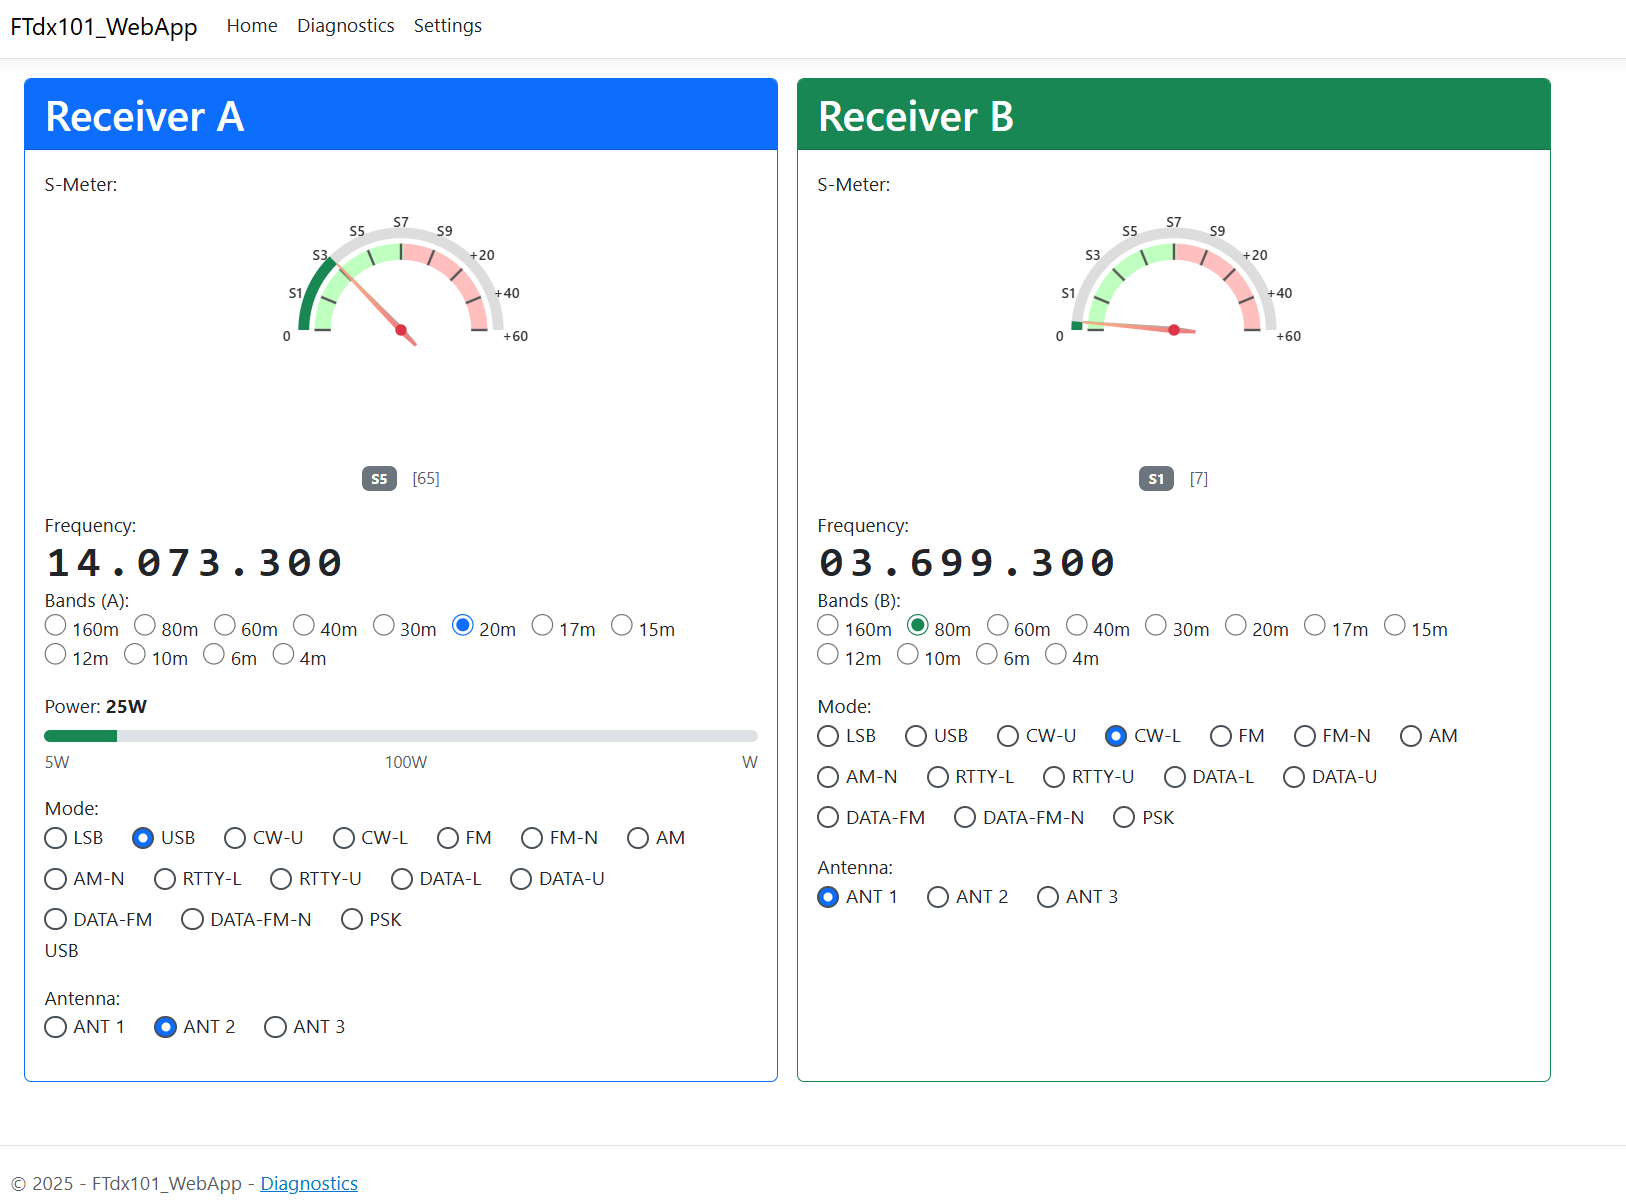
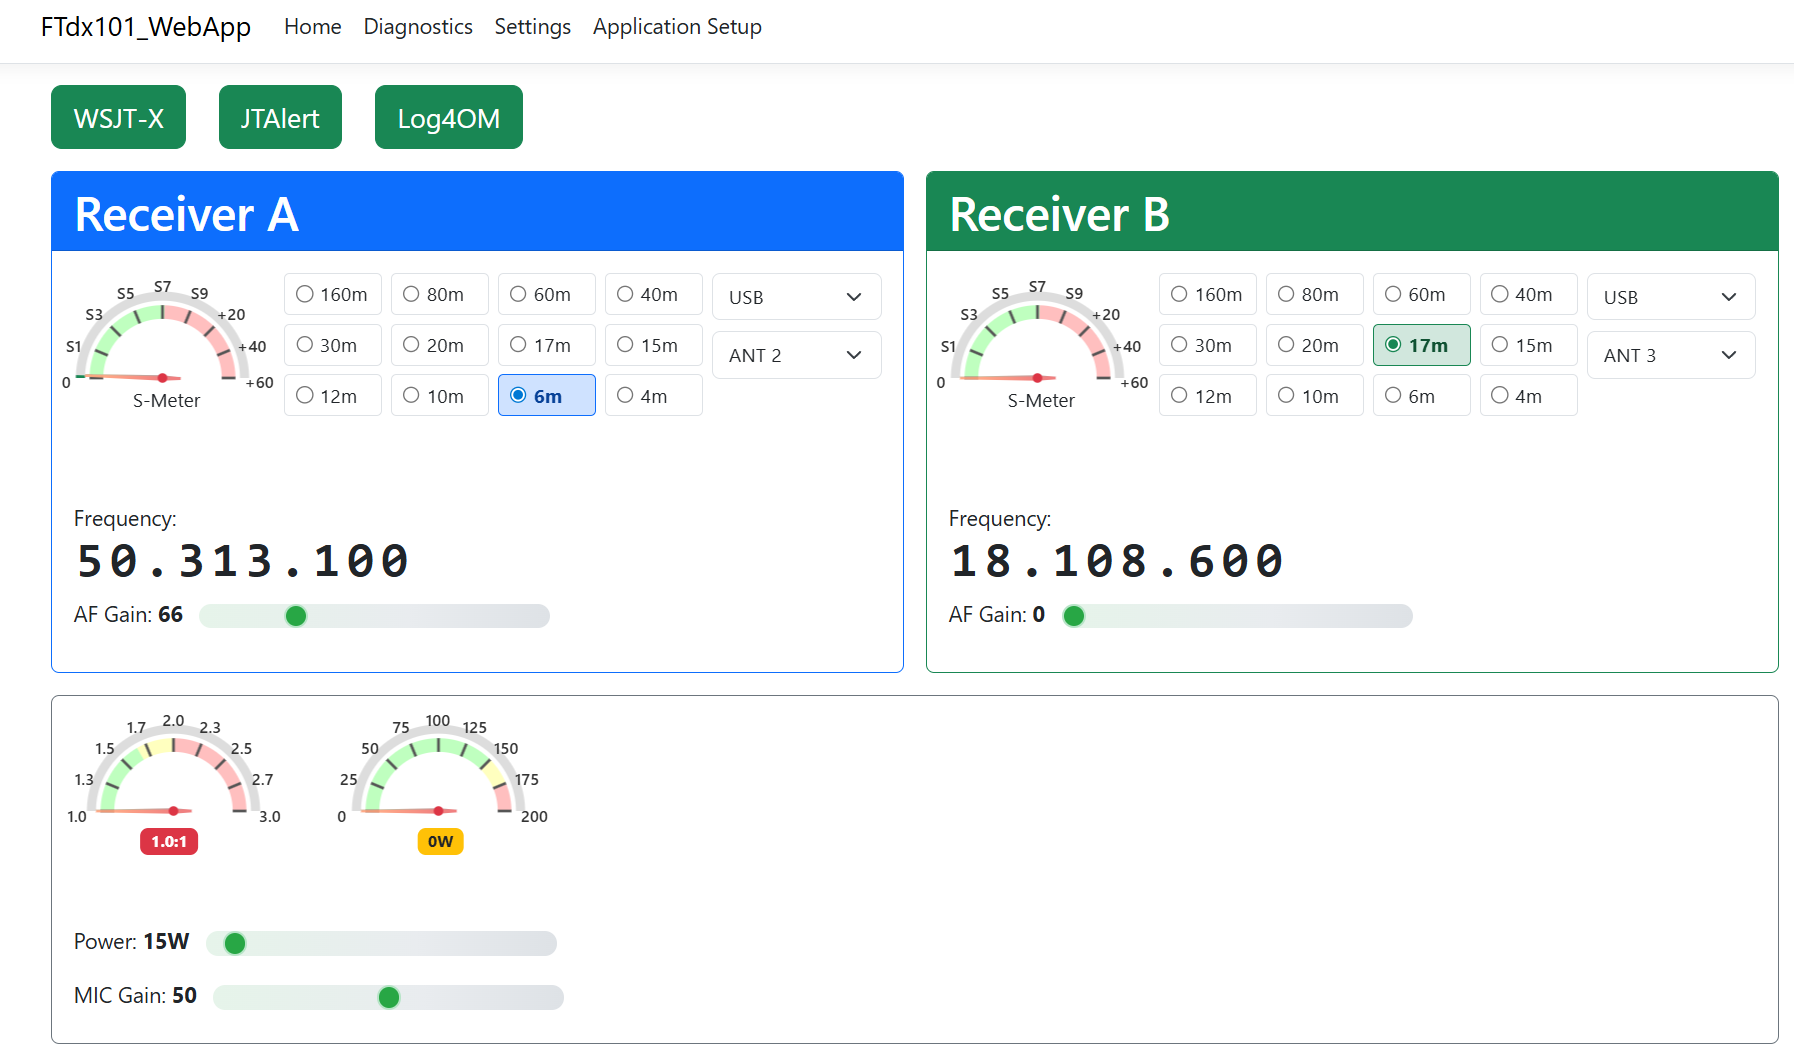
before  persistance sorted

diff --git a/wwwroot/js/site.js b/wwwroot/js/site.js
@@ -599,6 +599,19 @@ function changeSelectedDigit(receiver, delta) {
 // overwrites window.radioControl so Razor inline handlers call these
 // better-implemented versions.
 // ===========================================================================
+// --- AF Gain slider change handler ---
+function sendAfGain(receiver, value) {
+    fetch(`/api/cat/afgain/${receiver.toLowerCase()}`, {
+        method: 'POST',
+        headers: { 'Content-Type': 'application/json' },
+        body: JSON.stringify(value)
+    }).then(r => {
+        if (!r.ok) {
+            r.text().then(t => console.error('Failed to set AF Gain:', t));
+        }
+    }).catch(e => console.error('Error setting AF Gain:', e));
+}
+
 (function () {
     'use strict';
 
@@ -942,25 +955,34 @@ function changeSelectedDigit(receiver, delta) {
             updateModeAndAntennaButtons('A', data.vfoA.mode, data.vfoA.antenna);
             updateModeAndAntennaButtons('B', data.vfoB.mode, data.vfoB.antenna);
 
-            // Set AF Gain sliders and labels from backend
-            if (data.vfoA && typeof data.vfoA.afGain === 'number') {
-                const sliderA = document.getElementById('afGainSliderA');
-                const labelA = document.getElementById('afGainValueA');
-                if (sliderA && labelA) {
-                    sliderA.value = data.vfoA.afGain;
-                    labelA.innerText = data.vfoA.afGain;
-                    updateAfGainFill('afGainSliderA');
-                }
+            // --- Robust AF Gain slider enable/attach ---
+            const sliderA = document.getElementById('afGainSliderA');
+            const labelA = document.getElementById('afGainValueA');
+            const sliderB = document.getElementById('afGainSliderB');
+            const labelB = document.getElementById('afGainValueB');
+            // Use backend value or fallback to 0 (handle null, undefined, NaN, or missing)
+            let afGainA = 0;
+            let afGainB = 0;
+            if (data.vfoA && typeof data.vfoA.afGain === 'number' && !isNaN(data.vfoA.afGain)) {
+                afGainA = data.vfoA.afGain;
             }
-            if (data.vfoB && typeof data.vfoB.afGain === 'number') {
-                const sliderB = document.getElementById('afGainSliderB');
-                const labelB = document.getElementById('afGainValueB');
-                if (sliderB && labelB) {
-                    sliderB.value = data.vfoB.afGain;
-                    labelB.innerText = data.vfoB.afGain;
-                    updateAfGainFill('afGainSliderB');
-                }
+            if (data.vfoB && typeof data.vfoB.afGain === 'number' && !isNaN(data.vfoB.afGain)) {
+                afGainB = data.vfoB.afGain;
             }
+            if (sliderA && labelA) {
+                sliderA.value = afGainA;
+                labelA.innerText = afGainA;
+                updateAfGainFill('afGainSliderA');
+                sliderA.disabled = false;
+            }
+            if (sliderB && labelB) {
+                sliderB.value = afGainB;
+                labelB.innerText = afGainB;
+                updateAfGainFill('afGainSliderB');
+                sliderB.disabled = false;
+            }
+            attachAfGainSliderListeners();
+
         } catch (error) {
             console.error('Error fetching radio status:', error);
         }
@@ -1395,6 +1417,32 @@ function changeSelectedDigit(receiver, delta) {
             window.gaugeSWR = new RadialGauge(swrConfig);
             window.gaugeSWR.draw();
             createGaugeLabels('swrMeterCanvas', swrConfig._labels);
+        }
+    }
+
+
+
+    // Attach AF Gain slider event listeners only once, when data is available
+    function attachAfGainSliderListeners() {
+        const sliderA = document.getElementById('afGainSliderA');
+        const sliderB = document.getElementById('afGainSliderB');
+        const labelA = document.getElementById('afGainValueA');
+        const labelB = document.getElementById('afGainValueB');
+        if (sliderA && !sliderA._afGainListenerAttached && labelA) {
+            sliderA.addEventListener('input', function () {
+                labelA.innerText = sliderA.value;
+                updateAfGainFill('afGainSliderA');
+                sendAfGain('A', parseInt(sliderA.value));
+            });
+            sliderA._afGainListenerAttached = true;
+        }
+        if (sliderB && !sliderB._afGainListenerAttached && labelB) {
+            sliderB.addEventListener('input', function () {
+                labelB.innerText = sliderB.value;
+                updateAfGainFill('afGainSliderB');
+                sendAfGain('B', parseInt(sliderB.value));
+            });
+            sliderB._afGainListenerAttached = true;
         }
     }
 

diff --git a/Controllers/CatController.cs b/Controllers/CatController.cs
@@ -17,6 +17,25 @@ namespace FTdx101_WebApp.Controllers
         private readonly RadioInitializationService _radioInitService;
         private static readonly SemaphoreSlim _requestSemaphore = new(1, 1);
 
+        [HttpPost("afgain/a")]
+        public async Task<IActionResult> SetAfGainA([FromBody] int value)
+        {
+            if (!_catClient.IsConnected)
+                await EnsureConnectedAsync();
+            _radioStateService.AfGainA = value;
+            _logger.LogInformation("Set Receiver A AF Gain to {Value}", value);
+            return Ok(new { message = $"AF Gain {value} set for Receiver A" });
+        }
+
+        [HttpPost("afgain/b")]
+        public async Task<IActionResult> SetAfGainB([FromBody] int value)
+        {
+            if (!_catClient.IsConnected)
+                await EnsureConnectedAsync();
+            _radioStateService.AfGainB = value;
+            _logger.LogInformation("Set Receiver B AF Gain to {Value}", value);
+            return Ok(new { message = $"AF Gain {value} set for Receiver B" });
+        }
         // Static band frequency mapping (apply this at the top of your class)
         private static readonly Dictionary<string, long> BandFreqs = new(StringComparer.OrdinalIgnoreCase)
         {

diff --git a/Services/RadioState.cs b/Services/RadioState.cs
@@ -59,12 +59,12 @@ namespace FTdx101_WebApp.Services
         /// <summary>
         /// Receiver A AF Gain (0-255)
         /// </summary>
-        public int AfGainA { get; set; } = 128;
+        public int AfGainA { get; set; } = 0;
 
         /// <summary>
         /// Receiver B AF Gain (0-255)
         /// </summary>
-        public int AfGainB { get; set; } = 128;
+        public int AfGainB { get; set; } = 0;
 
         /// <summary>
         /// Additional controls and settings (for future expansion)
